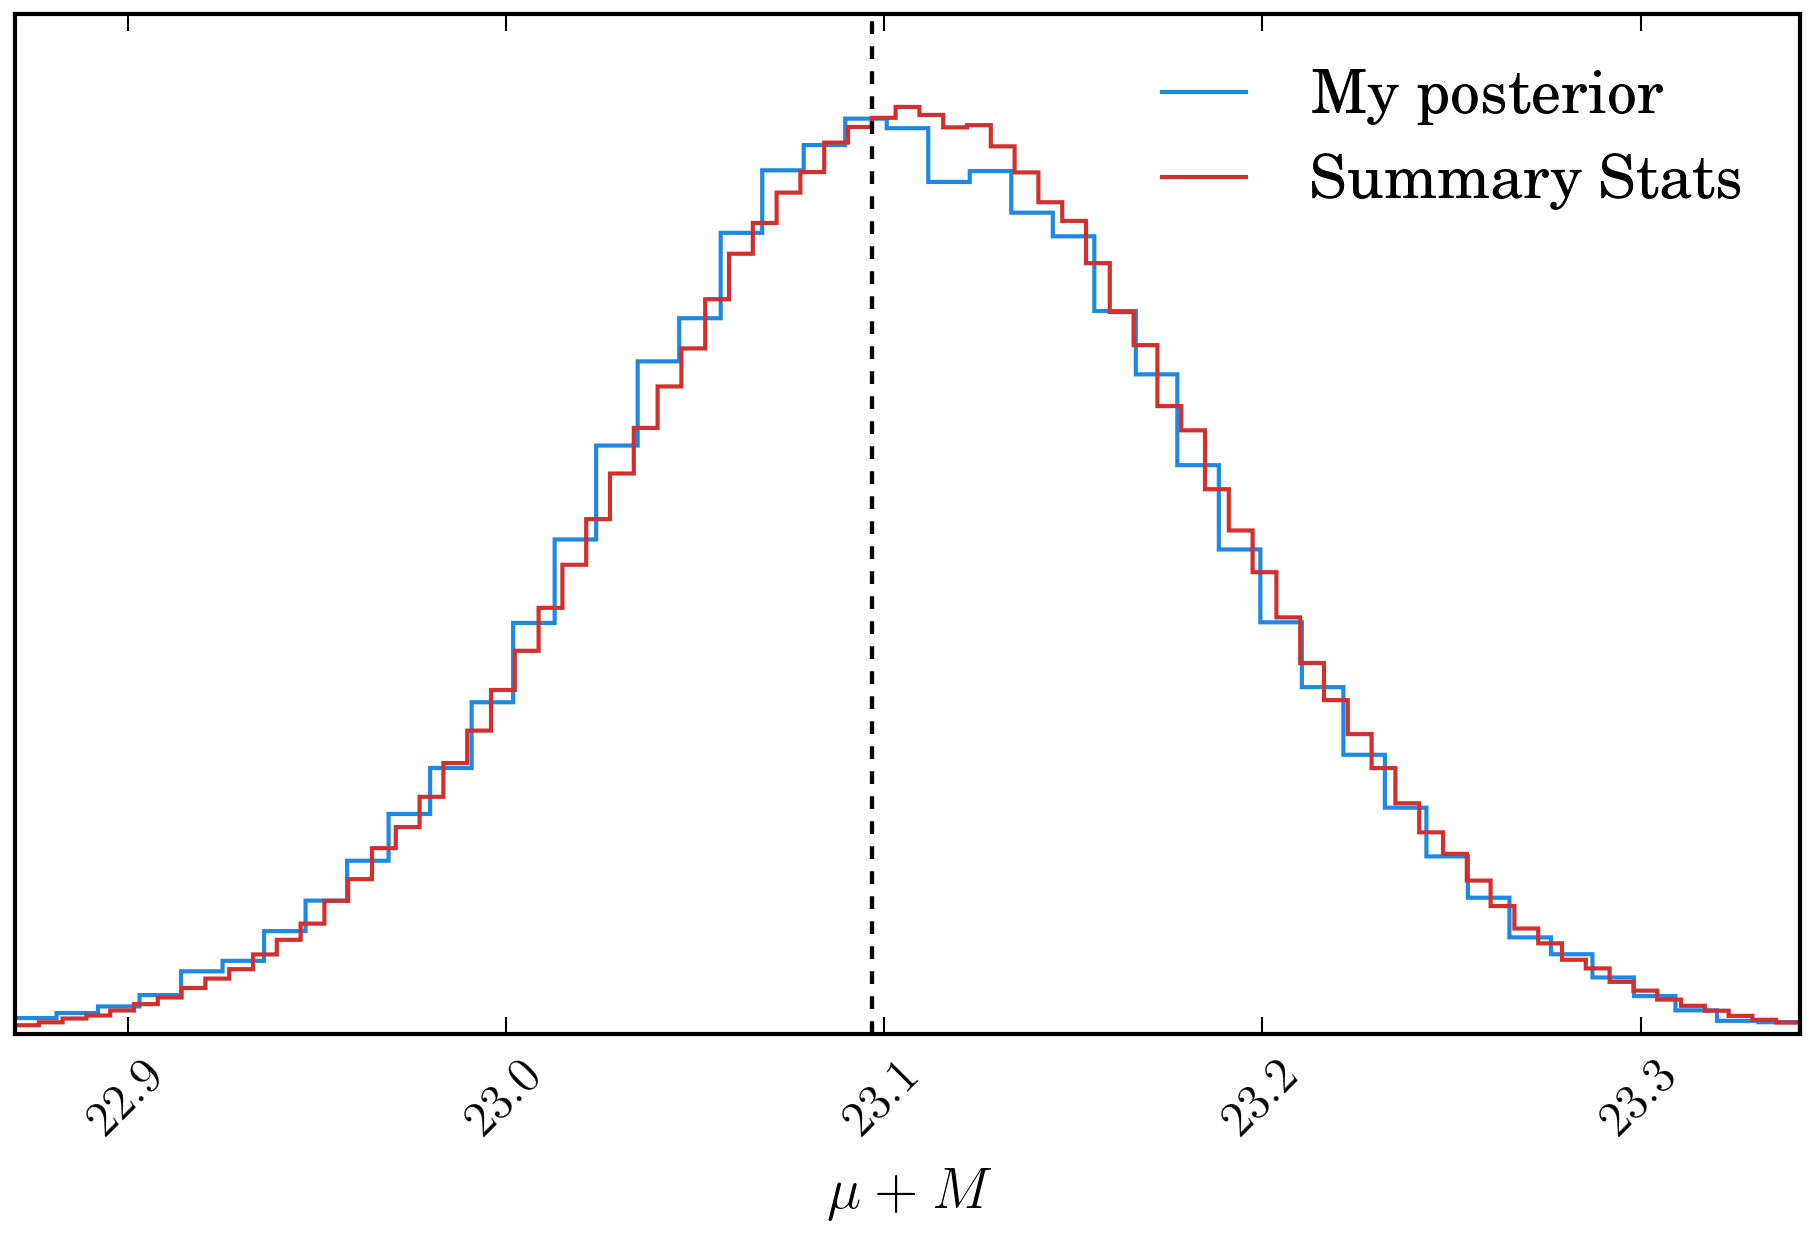
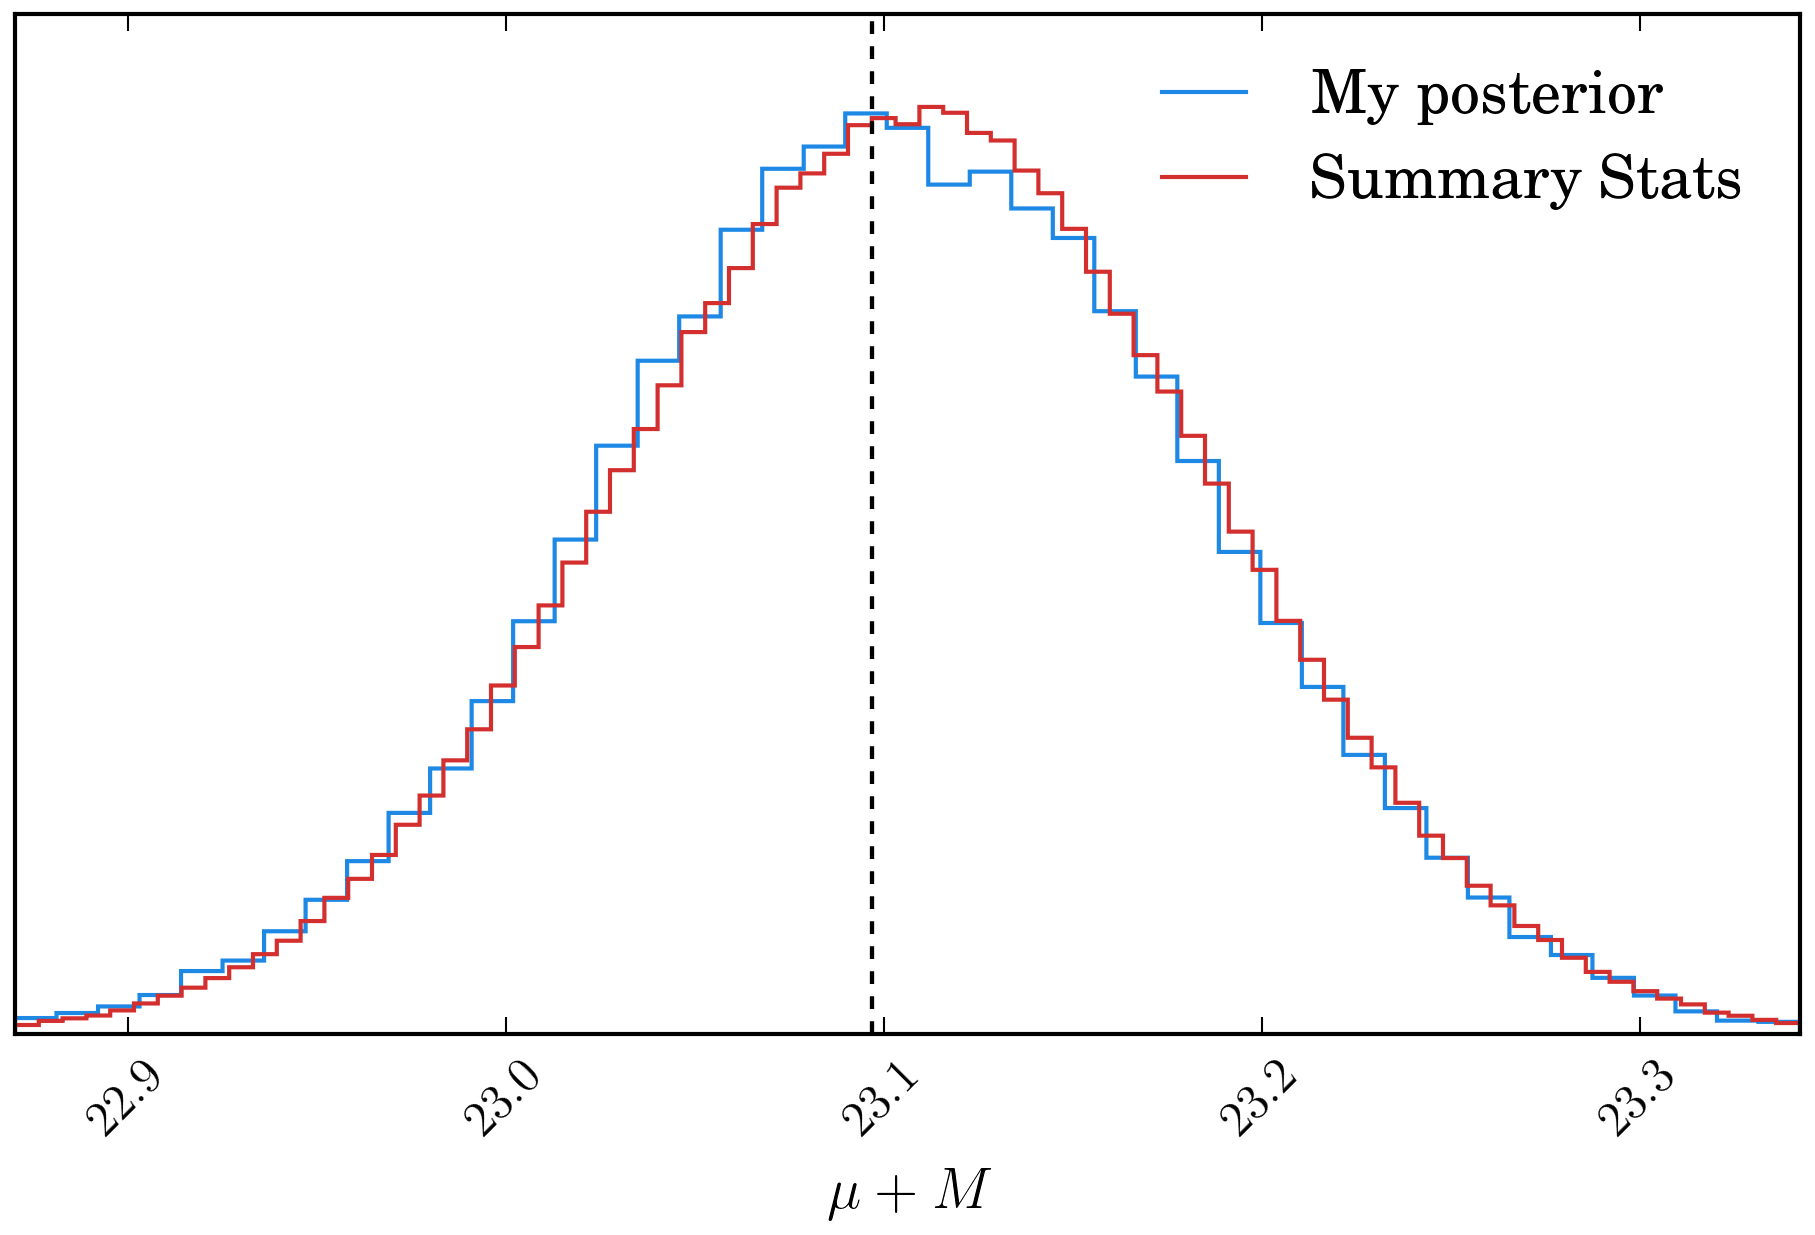
Quick update, comparing diff summary statistics now

diff --git a/dessn/investigations/gaussianity/ston_and_redshift.py b/dessn/investigations/gaussianity/ston_and_redshift.py
@@ -58,26 +58,20 @@ def get_gaussian_fit(z, t0, x0, x1, c, lc, seed, temp_dir, interped, type="iminu
         res, fitted_model = sncosmo.fit_lc(lc, model, ['t0', 'x0', 'x1', 'c'],
                                            guess_amplitude=False, guess_t0=False)
         chain = np.random.multivariate_normal(res.parameters[1:], res.covariance, size=int(1e5))
-        weights = None
     elif type == "mcmc":
         res, fitted_model = sncosmo.mcmc_lc(lc, model, ['t0', 'x0', 'x1', 'c'], nburn=500, nwalkers=20,
                                             nsamples=2000, guess_amplitude=False, guess_t0=False)
-        chain = res.samples
-        weights = None
+        chain = np.random.multivariate_normal(res.parameters[1:], res.covariance, size=int(1e5))
     else:
-        bounds = {"t0": [980, 1020], "x0": [0.5e-5, 1.5e-5], "x1": [-10, 10], "c": [-2, 2]}
-        res, fitted_model = sncosmo.nest_lc(lc, model, ['t0', 'x0', 'x1', 'c'], bounds, npoints=1000,
-                                            guess_amplitude=False, guess_t0=False)
-        chain = res.samples
-        weights = res.weights
+        raise ValueError("method %s not recognised" % type)
 
-    # fig = sncosmo.plot_lc(lc, model=[fitted_model, correct_model], errors=res.errors)
-    # fig.savefig(temp_dir + os.sep + "lc_%d.png" % seed, bbox_inches="tight", dpi=300)
+    fig = sncosmo.plot_lc(lc, model=[fitted_model, correct_model], errors=res.errors)
+    fig.savefig(temp_dir + os.sep + "lc_%d.png" % seed, bbox_inches="tight", dpi=300)
     map = {"x0": "$x_0$", "x1": "$x_1$", "c": "$c$", "t0": "$t_0$"}
     parameters = [map[a] for a in res.vparam_names]
 
     chain, parameters = add_mu_to_chain(interped, chain, parameters)
-    return chain, parameters, weights, res.parameters[1:], res.covariance
+    return chain, parameters, res.parameters[1:], res.covariance
 
 
 def get_posterior(z, t0, lc, seed, temp_dir, interped):
@@ -115,10 +109,11 @@ def add_mu_to_chain(interped, chain, parameters):
     return chain, parameters + [r"$\mu$"]
 
 
-def plot_results(chain, param, chainf, paramf, w, t0, x0, x1, c, temp_dir, seed, interped):
+def plot_results(chain, param, chainf, chainf2, paramf, t0, x0, x1, c, temp_dir, seed, interped):
     cc = ChainConsumer()
     cc.add_chain(chain, parameters=param, name="Posterior")
-    cc.add_chain(chainf, parameters=paramf, name="Gaussian", weights=w)
+    cc.add_chain(chainf, parameters=paramf, name="Minuit")
+    cc.add_chain(chainf2, parameters=paramf, name="Emcee")
     truth = {"$t_0$": t0, "$x_0$": x0, "$x_1$": x1, "$c$": c, r"$\mu$": get_mu(interped, x0, x1, c)}
     cc.plot(filename=temp_dir + "/surfaces_%d.png" % seed, truth=truth)
 
@@ -134,7 +129,7 @@ def is_unconstrained(chain, param):
     return False
 
 
-def get_result(temp_dir, seed, method="iminuit"):
+def get_result(temp_dir, seed):
     save_file = temp_dir + "/final%d.npy" % seed
 
     if os.path.exists(save_file):
@@ -142,8 +137,7 @@ def get_result(temp_dir, seed, method="iminuit"):
         if res.size == 0:
             return None
         else:
-            print(seed, res[-2], res[-1])
-            return np.concatenate(([seed], res))
+            return res
     else:
         interp = generate_and_return()
         z, t0, x0, x1, c, ston, lc = realise_light_curve(seed)
@@ -153,16 +147,17 @@ def get_result(temp_dir, seed, method="iminuit"):
             return None
 
         try:
-            chainf, parametersf, weights, means, cov = get_gaussian_fit(z, t0, x0, x1, c, lc, seed,
-                                                               temp_dir, interp, type=method)
-            if method in ["iminuit"]:
-                chain, parameters = get_posterior(z, t0, lc, seed, temp_dir, interp)
-                weights = None
+            chainf, parametersf, means, cov = get_gaussian_fit(z, t0, x0, x1, c, lc, seed,
+                                                               temp_dir, interp, type="iminuit")
+
+            mcmc_file = temp_dir + "/mcmc%d.npy" % seed
+            if os.path.exists(mcmc_file):
+                chainf2 = np.load(mcmc_file)
             else:
-                chain = chainf
-                parameters = parametersf
-                chainf = np.random.multivariate_normal(means, cov, size=int(1e6))
-                chainf, _ = add_mu_to_chain(interp, chainf, parameters[:-1])
+                chainf2, _, _, _ = get_gaussian_fit(z, t0, x0, x1, c, lc, seed, temp_dir, interp, type="mcmc")
+                np.save(mcmc_file, chainf2)
+
+            chain, parameters = get_posterior(z, t0, lc, seed, temp_dir, interp)
 
             assert is_fit_good(t0, x0, x1, c, means, cov)
             assert not is_unconstrained(chain, parameters)
@@ -172,9 +167,10 @@ def get_result(temp_dir, seed, method="iminuit"):
             np.save(save_file, np.array([]))
             return None
 
-        plot_results(chain, parameters, chainf, parametersf, weights, t0, x0, x1, c, temp_dir, seed, interp)
+        plot_results(chain, parameters, chainf, chainf2, parametersf, t0, x0, x1, c, temp_dir, seed, interp)
 
         muf = chainf[:, -1]
+        muf2 = chainf2[:, -1]
         mu = chain[:, -1]
 
         mean2 = np.mean(chain[:, :-1], axis=0)
@@ -183,13 +179,11 @@ def get_result(temp_dir, seed, method="iminuit"):
         chain2, _ = add_mu_to_chain(interp, chain2, parameters[:-1])
         mu2 = chain2[:, -1]
 
-        diffmu = np.average(muf) - np.average(mu, weights=weights)
-        diffmu2 = np.average(mu2) - np.average(mu, weights=weights)
-        diffstd = np.std(muf) / np.std(mu)
-        diffstd2 = np.std(mu2) / np.std(mu)
-        res = np.array([z, t0, x0, x1, c, ston, diffmu, diffstd, diffmu2, diffstd2])
+        mus = [np.mean(mu), np.mean(mu2), np.mean(muf), np.mean(muf2)]
+        stds = [np.std(mu), np.std(mu2), np.std(muf), np.std(muf2)]
+        res = np.array([seed, z, t0, x0, x1, c, ston] + mus + stds)
         np.save(save_file, res)
-        return np.concatenate(([seed], res))
+        return res
 
 
 def polyfit2d(x, y, z, order=3):
@@ -216,8 +210,8 @@ if __name__ == "__main__":
     if not os.path.exists(temp_dir):
         os.makedirs(temp_dir)
 
-    n = 2500
-    res = Parallel(n_jobs=1, max_nbytes="20M", verbose=100, batch_size=1)(delayed(get_result)(
+    n = 400
+    res = Parallel(n_jobs=4, max_nbytes="20M", verbose=100, batch_size=1)(delayed(get_result)(
         temp_dir, i) for i in range(n))
     res = np.array([r for r in res if r is not None])
     s = res[:, 6]
@@ -226,13 +220,18 @@ if __name__ == "__main__":
     seeds = res[:, 0]
     z = res[:, 1]
     s = res[:, 6]
-    diffmu2 = res[:, -2]
-    diffstd2 = res[:, -1]
-    diffmu = res[:, -4]
-    diffstd = res[:, -3]
 
-    diffstd = 100 * (diffstd - 1)
-    diffstd2 = 100 * (diffstd2 - 1)
+    diff_mu_ps = -res[:, 7] + res[:, 8]
+    diff_mu_fs = -res[:, 7] + res[:, 9]
+    diff_mu_ms = -res[:, 7] + res[:, 10]
+
+    diff_std_ps = res[:, 11] / res[:, 12]
+    diff_std_fs = res[:, 11] / res[:, 13]
+    diff_std_ms = res[:, 11] / res[:, 14]
+
+    diff_std_ps = 100 * (diff_std_ps - 1)
+    diff_std_fs = 100 * (diff_std_fs - 1)
+    diff_std_ms = 100 * (diff_std_ms - 1)
 
     import matplotlib.pyplot as plt
 
@@ -241,12 +240,14 @@ if __name__ == "__main__":
 
     xx, yy = np.meshgrid(zs, ston, indexing='ij')
 
-    fig, axes = plt.subplots(ncols=2, nrows=2, figsize=(12, 10))
+    fig, axes = plt.subplots(ncols=2, nrows=3, figsize=(12, 14))
 
-    axes = axes.flatten()
-    for ax, data in zip(axes, [diffmu, diffstd, diffmu2, diffstd2]):
+    axes = axes.T.flatten()
+    datas = [diff_mu_ps, diff_mu_fs, diff_mu_ms, diff_std_ps, diff_std_fs, diff_std_ms]
+    titles = ["PSS - P", "FSS - P", "MSS - P", "P/PSS", "P/FSS", "P/MSS"]
+    for ax, data, title in zip(axes, datas, titles):
         if True:
-            m = polyfit2d(z, s, data, order=4)
+            m = polyfit2d(z, s, data, order=3)
             zz = polyval2d(xx, yy, m)
         else:
             zz = griddata((z, s), data, (xx, yy), method="nearest")
@@ -269,6 +270,7 @@ if __name__ == "__main__":
                 ax.text(zp, sp, "%d" % i, alpha=0.3)
         ax.set_xlabel("$z$")
         ax.set_ylabel("$S/N$")
+        ax.set_title(title)
     plt.tight_layout()
-    fig.savefig(os.path.dirname(__file__) + "/output/bias.png", dpi=300, bbox_inches="tight", transparent=True)
+    fig.savefig(os.path.dirname(__file__) + "/output/bias2.png", dpi=300, bbox_inches="tight", transparent=True)
     plt.show()

diff --git a/dessn/investigations/gaussianity/__init__.py b/dessn/investigations/gaussianity/__init__.py
@@ -87,19 +87,20 @@ the redshift and sky flux to vary (ie redshift and signal-to-noise changes). The
 the mean value for :math:`\mu+M` is shown in the figure below.
 
 
-.. figure::     ../dessn/investigations/gaussianity/output/bias.png
+.. figure::     ../dessn/investigations/gaussianity/output/bias2.png
     :align:     center
     :width:     100%
 
     The bias in :math:`\mu+M` as a function of redshift
     and signal to noise. Each sample is shown as a point, with a third order polynomial
-    fit to the surface shown as a contour. The top row represents the difference
-    between the output of ``minuit`` summary statistics
-    when compared to posterior surface generated using ``emcee``, and the bottom row
-    shows the comparison between ``emcee`` summary statistics and the full ``emcee`` posterior.
-    The left hand column shows the change in :math:`\Delta(\mu + M)`, and the right
+    fit to the surface shown as a contour. The left hand column shows the change
+    in :math:`\Delta(\mu + M)`, and the right
     hand column shows the *percentage* change in standard deviation for the marginalised
-    distributions of :math:`\mu+M`.
+    distributions of :math:`\mu+M`. There are three rows, to reflect the three different
+    way summary statistics are obtained: **FSS:** From an ``iminuit`` fit using ``sncosmo``.
+    **MSS:** From an ``emcee`` fit using ``sncosmo``. **PSS:** From an ``emcee`` fit not
+    using the ``mcmc_lc`` method in ``sncosmo``.
+
 
 With reference to the above figure, we can see that the summary statistics provide
 accurate statistics when the mean and covariance are determined from the ``emcee`` distribution,
